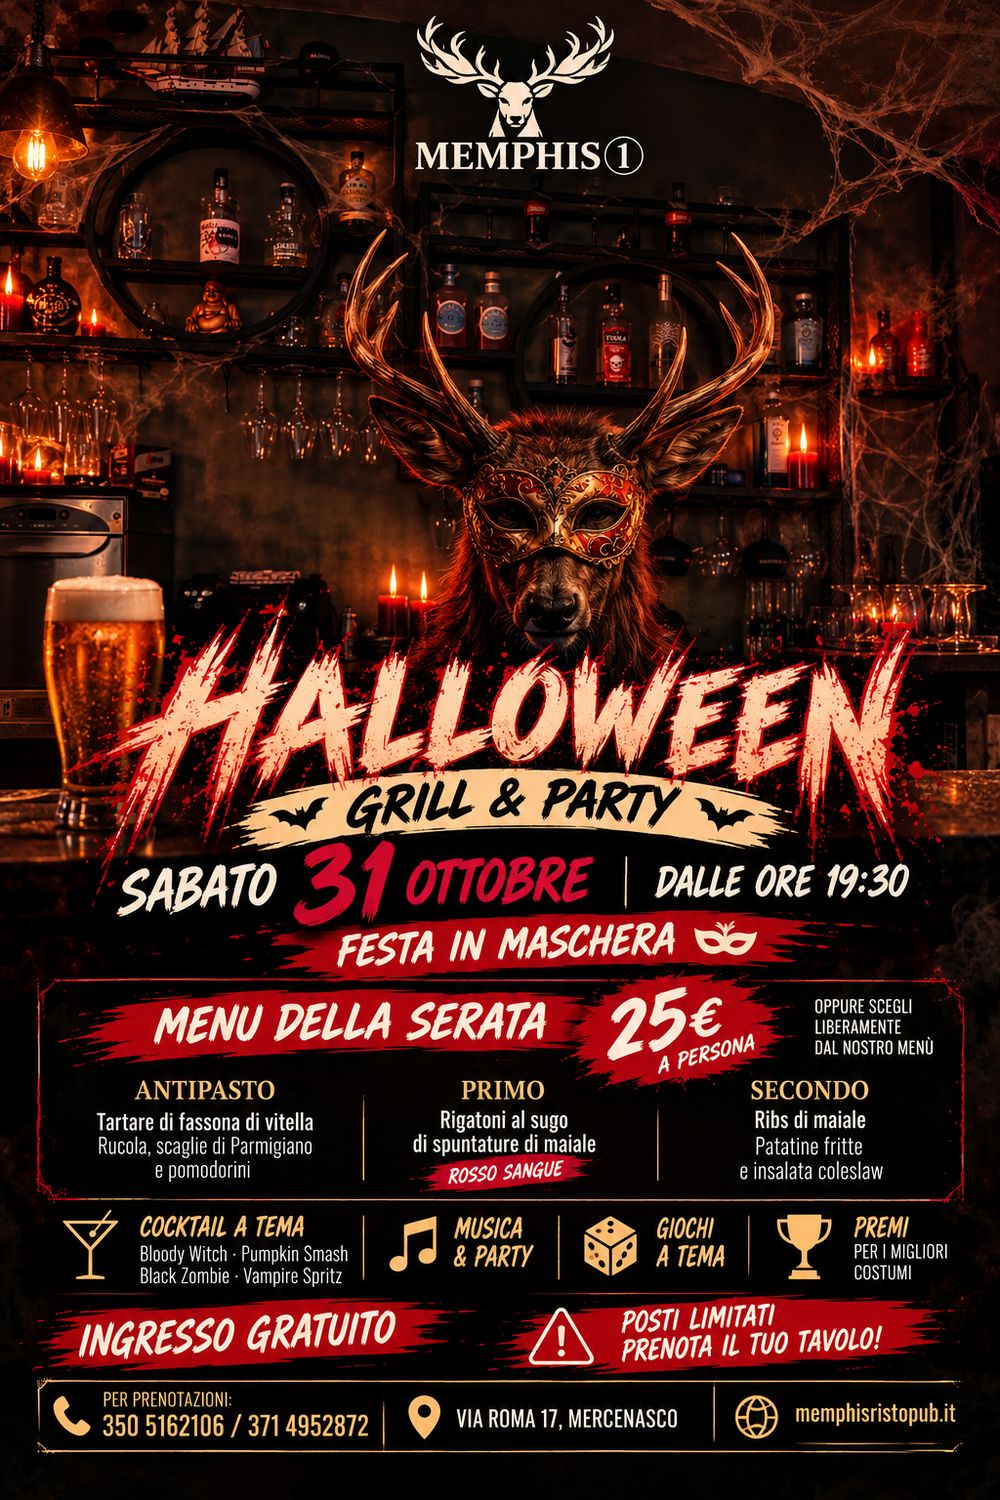
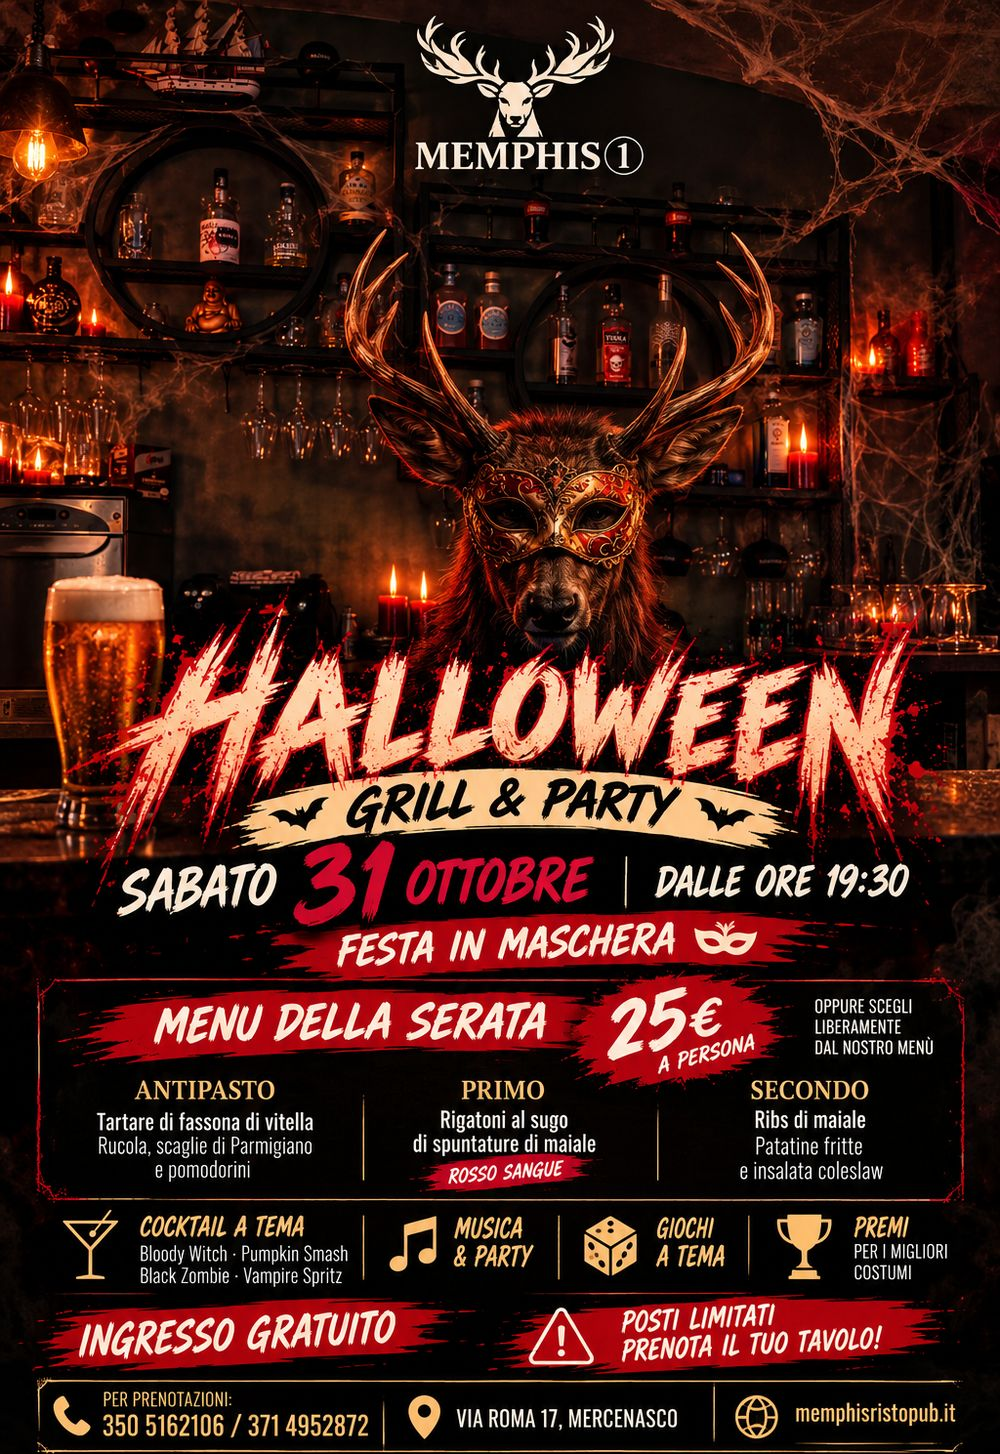
Sezione Promozioni e locandine senza bande nere
- events.json: voci con "type": "promo" (Ribs, Dehor) mostrate
  in una sezione dedicata, opzionalmente fino a "until"
- su mobile le promo scorrono in orizzontale
- serate passate nascoste se non ce ne sono
- lo script taglia le bande nere degli screenshot delle locandine

diff --git a/js/events.js b/js/events.js
@@ -2,7 +2,10 @@ document.addEventListener("DOMContentLoaded", () => {
 
     const nextEventSection = document.querySelector(".next-event");
     const eventFeature = document.querySelector(".event-feature");
+    const pastEventsSection = document.querySelector(".past-events");
     const pastEventsGrid = document.querySelector(".past-events-grid");
+    const promosSection = document.querySelector(".promos");
+    const promosGrid = document.querySelector(".promos-grid");
 
     let events = [];
     let countdownInterval = null;
@@ -25,8 +28,23 @@ document.addEventListener("DOMContentLoaded", () => {
         })
         .then(data => {
 
+            /*
+             * Le voci con "type": "promo" sono promozioni:
+             * restano visibili finché non vengono tolte
+             * dal file o fino alla data "until" (inclusa).
+             */
+            renderPromos(
+                data.filter(item =>
+                    item.type === "promo" &&
+                    item.title &&
+                    item.image &&
+                    !isExpired(item.until)
+                )
+            );
+
             events = data
                 .filter(event =>
+                    event.type !== "promo" &&
                     event.date &&
                     event.title &&
                     event.image
@@ -59,8 +77,12 @@ document.addEventListener("DOMContentLoaded", () => {
                 nextEventSection.style.display = "none";
             }
 
-            if (pastEventsGrid) {
-                pastEventsGrid.innerHTML = "";
+            if (pastEventsSection) {
+                pastEventsSection.style.display = "none";
+            }
+
+            if (promosSection) {
+                promosSection.style.display = "none";
             }
         });
 
@@ -79,6 +101,92 @@ document.addEventListener("DOMContentLoaded", () => {
                 : "23:59";
 
         return new Date(`${date}T${eventTime}:00`);
+    }
+
+
+    function isExpired(until) {
+
+        if (!until) {
+            return false;
+        }
+
+        return createEventDate(until) < new Date();
+    }
+
+
+    /*
+    ========================================
+    PROMOZIONI
+    ========================================
+    */
+
+    function renderPromos(promos) {
+
+        if (!promosSection || !promosGrid) {
+            return;
+        }
+
+
+        if (promos.length === 0) {
+
+            promosSection.style.display = "none";
+
+            return;
+        }
+
+
+        promosSection.style.display = "";
+
+        promosGrid.innerHTML = promos
+            .map(promo => {
+
+                const title = escapeHtml(promo.title);
+
+                const whatsappText = encodeURIComponent(
+                    `Ciao! Vorrei informazioni sulla promozione "${promo.title}".`
+                );
+
+                return `
+                    <article class="promo-card">
+
+                        <a
+                            href="${escapeHtml(promo.image)}"
+                            class="promo-image"
+                            target="_blank"
+                            rel="noopener"
+                            aria-label="Apri la locandina ${title}"
+                        >
+                            <img
+                                src="${escapeHtml(promo.image)}"
+                                alt="Locandina ${title}"
+                                loading="lazy"
+                            >
+                        </a>
+
+
+                        <div class="promo-content">
+
+                            <h3>
+                                ${title}
+                            </h3>
+
+
+                            <a
+                                href="https://wa.me/393714952872?text=${whatsappText}"
+                                class="text-link"
+                                target="_blank"
+                                rel="noopener"
+                            >
+                                Chiedi info
+                            </a>
+
+                        </div>
+
+                    </article>
+                `;
+
+            })
+            .join("");
     }
 
 
@@ -274,14 +382,13 @@ document.addEventListener("DOMContentLoaded", () => {
 
         if (pastEvents.length === 0) {
 
-            pastEventsGrid.innerHTML = `
-                <p class="past-events-empty">
-                    Gli eventi passati appariranno qui.
-                </p>
-            `;
+            pastEventsSection.style.display = "none";
 
             return;
         }
+
+
+        pastEventsSection.style.display = "";
 
 
         pastEventsGrid.innerHTML = pastEvents

diff --git a/css/style.css b/css/style.css
@@ -571,6 +571,69 @@ p {
 
 
 /* =========================================================
+   9b. PROMOZIONI
+========================================================= */
+
+.promos-grid {
+    display: grid;
+
+    grid-template-columns: repeat(auto-fill, minmax(240px, 1fr));
+
+    align-items: start;
+
+    gap: 20px;
+}
+
+
+.promo-card {
+    overflow: hidden;
+
+    border: 1px solid var(--border);
+    border-radius: var(--radius);
+
+    background: var(--bg-card);
+}
+
+
+.promo-image {
+    display: block;
+
+    background: #0c0b0a;
+}
+
+
+.promo-image img {
+    width: 100%;
+    height: auto;
+
+    transition: opacity var(--transition);
+}
+
+
+.promo-image:hover img {
+    opacity: 0.85;
+}
+
+
+.promo-content {
+    display: flex;
+    align-items: center;
+    justify-content: space-between;
+
+    gap: 12px;
+
+    padding: 14px 16px;
+}
+
+
+.promo-content h3 {
+    margin: 0;
+
+    font-size: 1.1rem;
+}
+
+
+/* =========================================================
    10. LOCALE
 ========================================================= */
 
@@ -1667,6 +1730,25 @@ a:focus-visible {
 
     .next-event.section {
         padding-block: 44px;
+    }
+
+
+    .promos-grid {
+        display: flex;
+
+        overflow-x: auto;
+        scroll-snap-type: x mandatory;
+
+        gap: 14px;
+
+        padding-bottom: 6px;
+    }
+
+
+    .promo-card {
+        flex: 0 0 78%;
+
+        scroll-snap-align: start;
     }
 
 

diff --git a/index.html b/index.html
@@ -193,6 +193,53 @@
 
 
         <!-- ================================
+            PROMOZIONI
+        ================================= -->
+
+        <section
+            class="promos section"
+            id="promozioni"
+        >
+
+            <div class="container">
+
+                <div class="section-heading">
+
+                    <div>
+
+                        <p class="eyebrow">
+                            PROMOZIONI
+                        </p>
+
+                        <h2>
+                            In corso al MEMPHIS①
+                        </h2>
+
+                    </div>
+
+                    <p>
+                        Le proposte attive in questo periodo.
+                    </p>
+
+                </div>
+
+
+                <div class="promos-grid">
+
+                    <!--
+                        Le promozioni vengono caricate
+                        automaticamente da events.json
+                        (voci con "type": "promo").
+                    -->
+
+                </div>
+
+            </div>
+
+        </section>
+
+
+        <!-- ================================
              INTRO
         ================================= -->
 

diff --git a/tools/ottimizza-immagini.py b/tools/ottimizza-immagini.py
@@ -7,6 +7,7 @@ leggere da pubblicare, mantenendo la stessa struttura di cartelle.
 
 - Foto e locandine (senza trasparenza) -> .jpg
 - Immagini con trasparenza (es. logo)  -> .png, bordi trasparenti rimossi
+- Locandine (events/): bande nere degli screenshot rimosse
 - Rotazione EXIF applicata, metadati rimossi (niente GPS dai telefoni)
 
 Uso, dalla cartella del progetto:
@@ -30,6 +31,9 @@ EXTENSIONS = {".jpg", ".jpeg", ".png", ".webp"}
 
 JPEG_QUALITY = 80
 
+# Sotto questa luminosità (0-255) un bordo è considerato "nero"
+BLACK_THRESHOLD = 24
+
 
 def max_width(relative_path):
     """Larghezza massima in base al tipo di immagine."""
@@ -51,6 +55,16 @@ def has_transparency(image):
     return image.mode == "P" and "transparency" in image.info
 
 
+def trim_black_borders(image):
+    """Rimuove le bande nere intorno alle locandine (screenshot)."""
+
+    mask = image.convert("L").point(lambda value: 255 if value > BLACK_THRESHOLD else 0)
+
+    box = mask.getbbox()
+
+    return image.crop(box) if box else image
+
+
 def optimize(source):
 
     relative = source.relative_to(SRC)
@@ -64,6 +78,9 @@ def optimize(source):
         image = image.crop(image.getchannel("A").getbbox())
     else:
         image = image.convert("RGB")
+
+        if relative.parts[0] == "events":
+            image = trim_black_borders(image)
 
     limit = max_width(relative)
 
